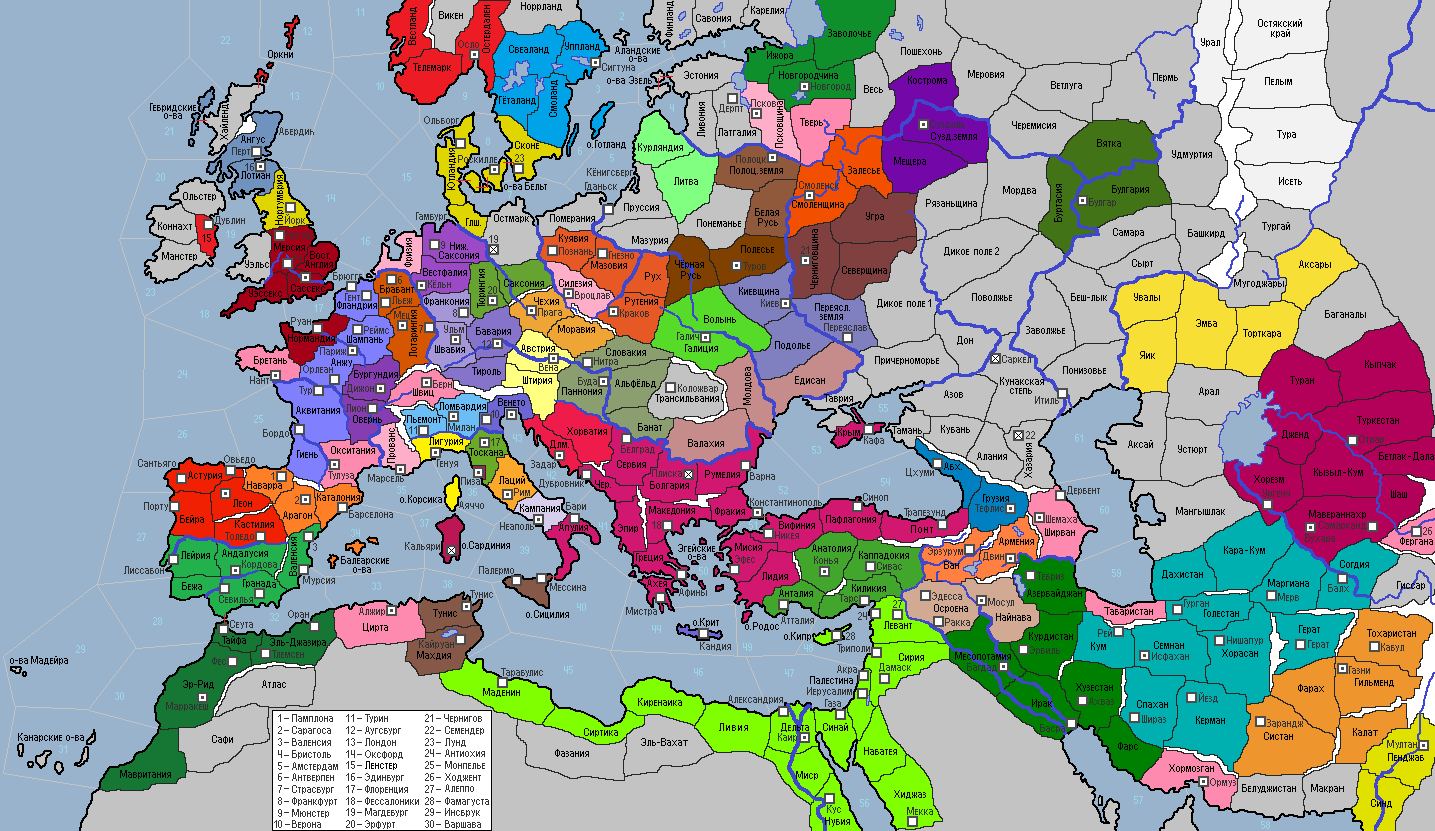
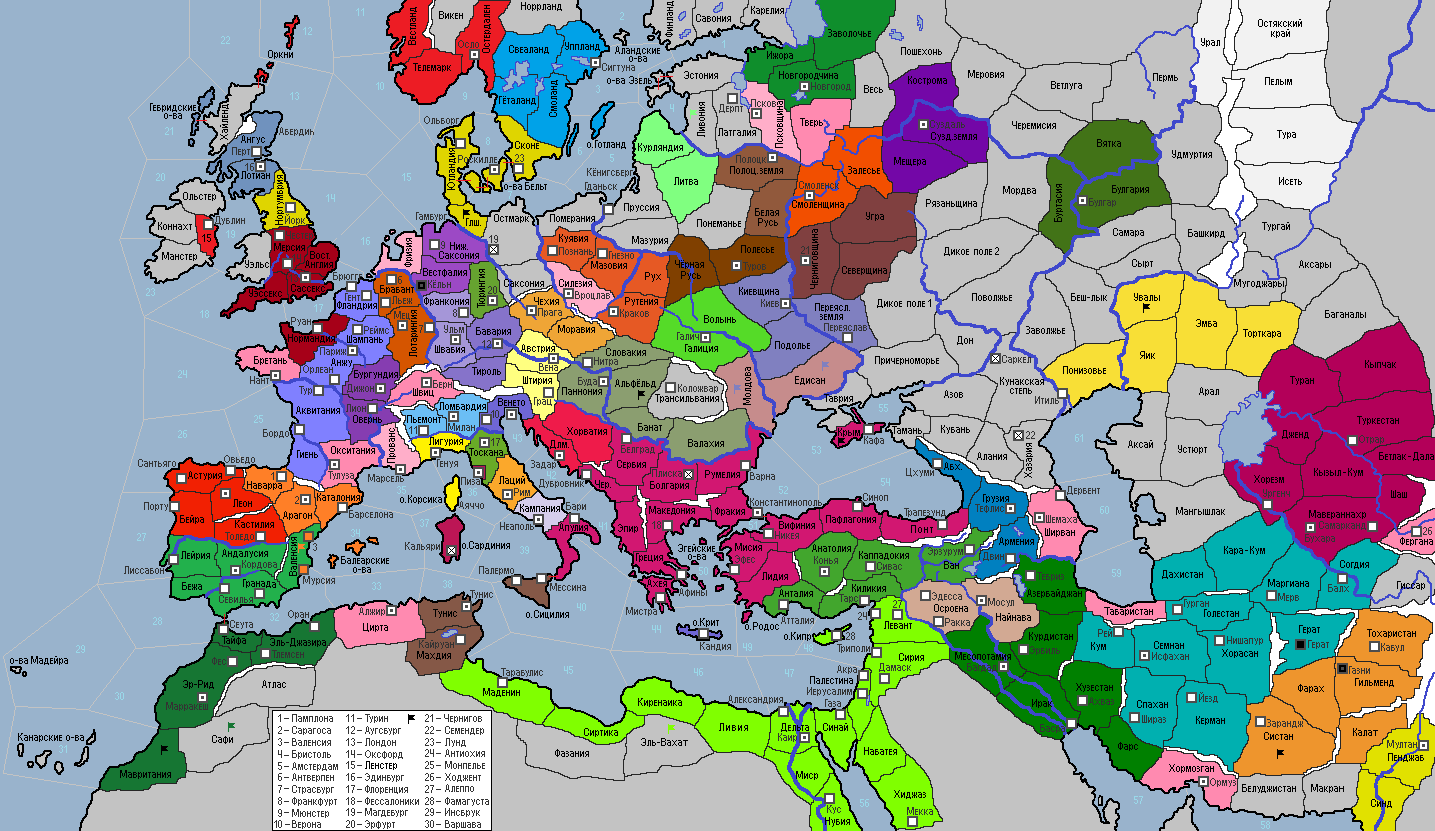
Карта третьего хода

diff --git a/turns/turn02.html b/turns/turn02.html
@@ -21,14 +21,14 @@
         <a href="turn01.html"> <== </a>
         <a href="turn01.html">| 1 |</a>
         <a href="turn02.html">| 2 |</a>
-        <!-- <a href="turn03.html">| 3 |</a> -->
+        <a href="turn03.html">| 3 |</a>
         <!-- <a href="turn04.html">| 4 |</a> -->
         <!-- <a href="turn05.html">| 5 |</a> -->
         <!-- <a href="turn06.html">| 6 |</a> -->
         <!-- <a href="turn07.html">| 7 |</a>    -->
         <!-- <a href="turn08.html">| 8 |</a> -->
         <!-- <a href="turn09.html">| 9 |</a>    -->
-        <!-- <a href="turn02.html"> ==> </a>     -->
+        <a href="turn03.html"> ==> </a>    
     </p>
 
     <p>

diff --git a/turns.html b/turns.html
@@ -24,7 +24,7 @@
         <p><a href="players.html">Игроки</a></p>         -->
         <p><a href="turns/turn01.html">1-й ход (1000 г.)</a></p>
         <p><a href="turns/turn02.html">2-й ход (1005 г.)</a></p>
-        <!-- <p><a href="turns/turn03.html">3-й ход (1010 г.)</a></p> -->
+        <p><a href="turns/turn03.html">3-й ход (1010 г.)</a></p>
         <!-- <p><a href="turns/turn04.html">4-й ход (1015 г.)</a></p> -->
         <!-- <p><a href="turns/turn05.html">5-й ход (1020 г.)</a></p> -->
         <!-- <p><a href="turns/turn06.html">6-й ход (1025 г.)</a></p> -->

diff --git a/maps.html b/maps.html
@@ -37,7 +37,7 @@
     <!-- <p>Устарело, актуальный список игроков можно посмотреть <a href="players.html">тут</a></p> -->
 
     <div class="map">
-        <img id="map1" src="turns/img/1005.png" alt="" srcset="">
+        <img id="map1" src="turns/img/1010.png" alt="" srcset="">
     </div>
     
     <!-- <p><img src="img/1700.png" alt="" srcset=""></p> -->

diff --git a/turns/turn01.html b/turns/turn01.html
@@ -21,7 +21,7 @@
         <a href="turn01.html"> <== </a>
         <a href="turn01.html">| 1 |</a>
         <a href="turn02.html">| 2 |</a>
-        <!-- <a href="turn03.html">| 3 |</a> -->
+        <a href="turn03.html">| 3 |</a>
         <!-- <a href="turn04.html">| 4 |</a> -->
         <!-- <a href="turn05.html">| 5 |</a> -->
         <!-- <a href="turn06.html">| 6 |</a> -->

diff --git a/turns/turn03.html b/turns/turn03.html
@@ -44,7 +44,7 @@
 
         <h2>3-й ход (1010 г.)</h2> 
 
-        <p><b></b></p>
+        <p><b>Лень</b></p>
         
         <p><b></b></p>
 
